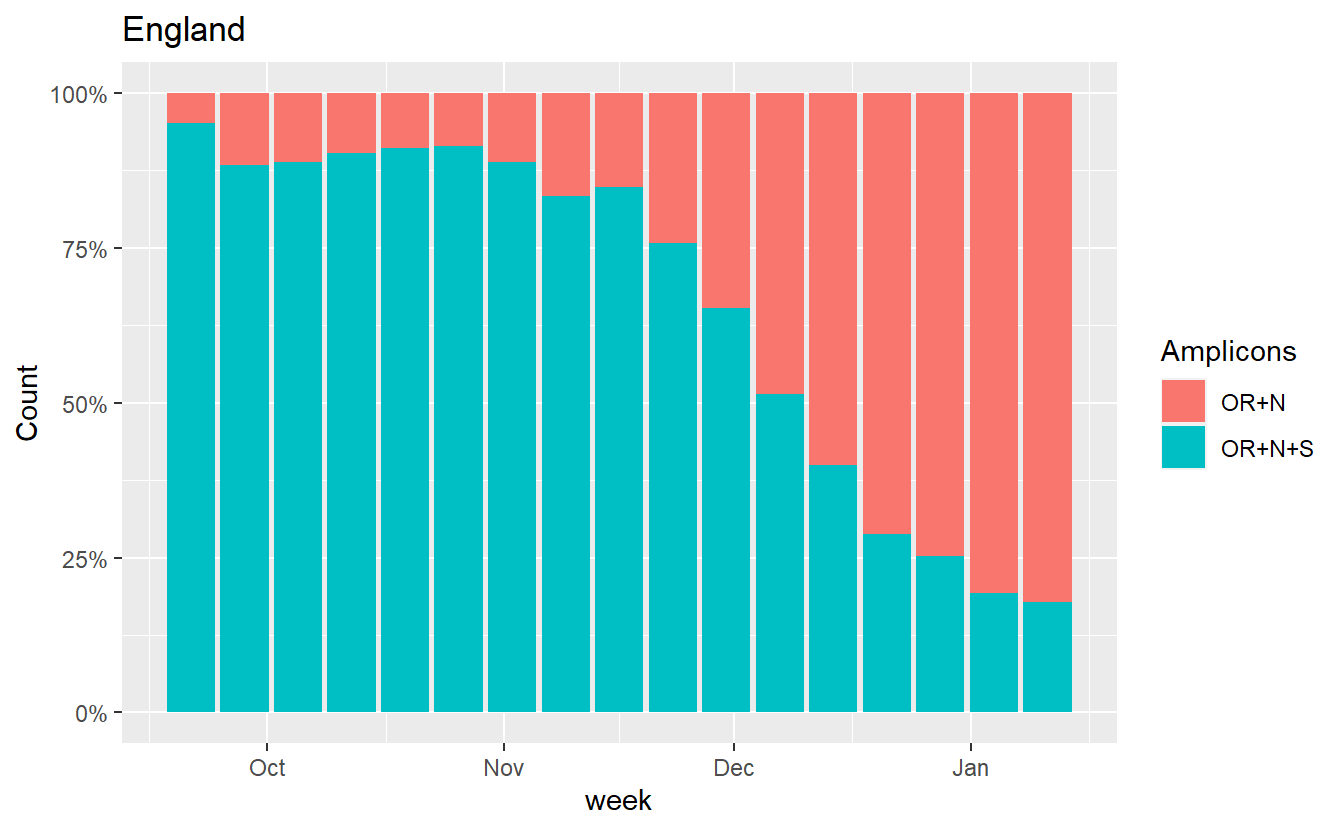
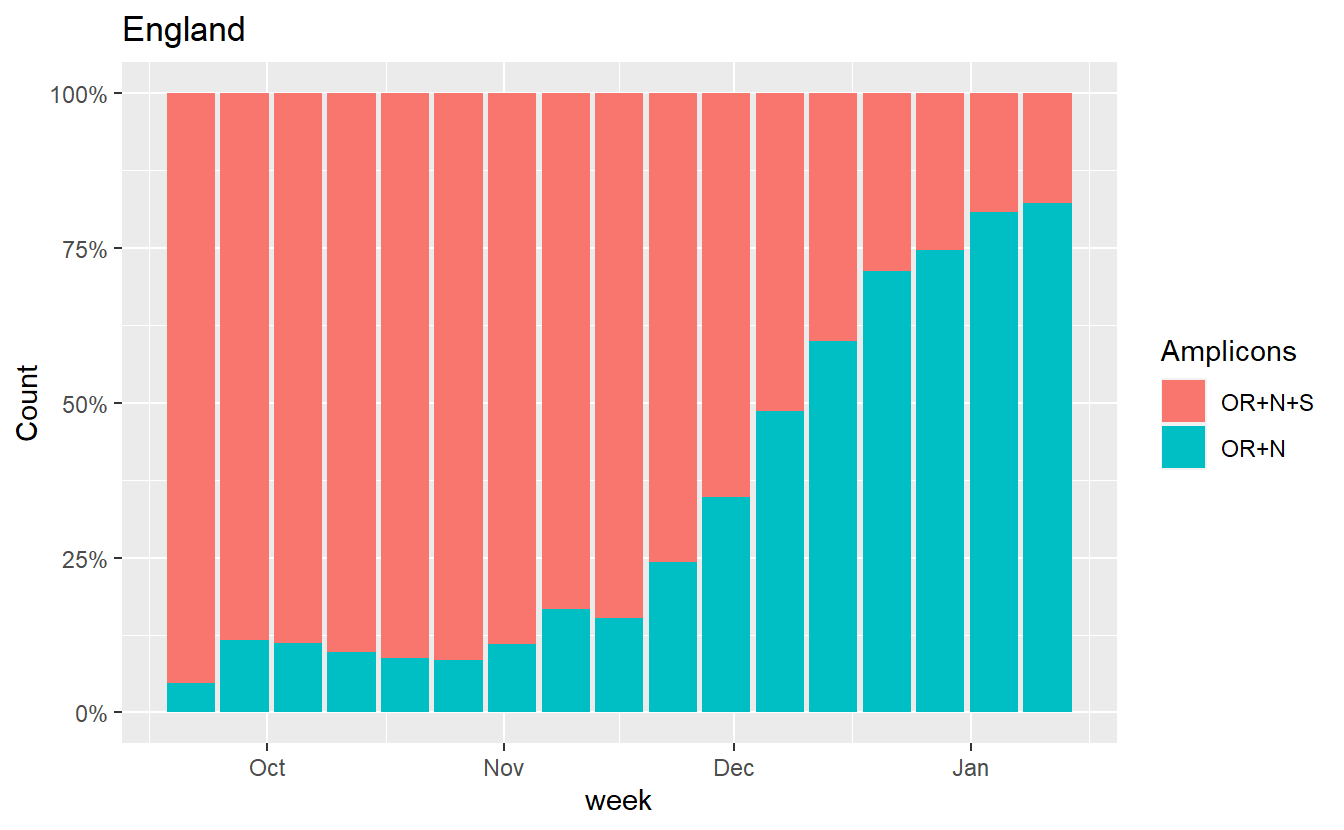
improve plot

Changed region(s): [[0.125, 0.1506, 0.8125, 0.8434]]

diff --git a/content/post/2021-01-22-ons-data/index.md b/content/post/2021-01-22-ons-data/index.md
@@ -12,7 +12,7 @@ draft: false
 projects: []
 mininote: true
 output:  hugodown::md_document  
-rmd_hash: f098c7b91c751bb2
+rmd_hash: ff137898fefec94a
 
 ---
 
@@ -90,6 +90,17 @@ Now lets look at the trajectories of all amplicon groups over time in England.
 
 </code></pre>
 <img src="figs/unnamed-chunk-4-1.png" width="700px" style="display: block; margin: auto;" />
+<pre class='chroma'><code class='language-r' data-lang='r'>
+
+<span class='nv'>data</span><span class='o'>$</span><span class='nv'>Amplicons</span> <span class='o'>=</span> <span class='nf'><a href='https://rdrr.io/r/base/factor.html'>factor</a></span><span class='o'>(</span><span class='nf'><a href='https://rdrr.io/r/base/character.html'>as.character</a></span><span class='o'>(</span><span class='nv'>data</span><span class='o'>$</span><span class='nv'>Amplicons</span><span class='o'>)</span>,levels <span class='o'>=</span> <span class='nf'><a href='https://rdrr.io/r/base/c.html'>c</a></span><span class='o'>(</span><span class='s'>"S only"</span>,<span class='s'>"OR+S"</span>,<span class='s'>"N+S"</span>,<span class='s'>"OR+N+S"</span>,<span class='s'>"N only"</span>,<span class='s'>"OR only"</span>,<span class='s'>"OR+N"</span><span class='o'>)</span><span class='o'>)</span>
+
+<span class='nf'>ggplot</span><span class='o'>(</span><span class='nv'>data</span><span class='o'>%&gt;%</span> <span class='nf'><a href='https://rdrr.io/r/stats/filter.html'>filter</a></span><span class='o'>(</span><span class='nv'>Region</span><span class='o'>==</span><span class='s'>"England"</span><span class='o'>)</span><span class='o'>%&gt;%</span> <span class='nf'><a href='https://rdrr.io/r/stats/filter.html'>filter</a></span><span class='o'>(</span><span class='nv'>Amplicons</span><span class='o'>!=</span><span class='s'>"S only"</span><span class='o'>)</span>, <span class='nf'>aes</span><span class='o'>(</span>x<span class='o'>=</span><span class='nv'>week</span>,y<span class='o'>=</span><span class='nv'>proportion</span>,fill<span class='o'>=</span><span class='nv'>Amplicons</span><span class='o'>)</span><span class='o'>)</span><span class='o'>+</span><span class='nf'>geom_area</span><span class='o'>(</span><span class='o'>)</span><span class='o'>+</span><span class='nf'>theme_bw</span><span class='o'>(</span><span class='o'>)</span><span class='o'>+</span><span class='nf'>scale_y_continuous</span><span class='o'>(</span>expand<span class='o'>=</span><span class='nf'><a href='https://rdrr.io/r/base/c.html'>c</a></span><span class='o'>(</span><span class='m'>0</span>,<span class='m'>0</span><span class='o'>)</span>,labels<span class='o'>=</span><span class='nf'>scales</span><span class='nf'>::</span><span class='nv'><a href='https://scales.r-lib.org//reference/label_percent.html'>percent</a></span><span class='o'>)</span><span class='o'>+</span><span class='nf'>scale_fill_brewer</span><span class='o'>(</span>type<span class='o'>=</span><span class='s'>"qual"</span>,palette<span class='o'>=</span><span class='m'>4</span><span class='o'>)</span><span class='o'>+</span><span class='nf'>labs</span><span class='o'>(</span>x<span class='o'>=</span><span class='s'>"Date"</span>,y<span class='o'>=</span><span class='s'>"Proportion"</span><span class='o'>)</span><span class='o'>+</span><span class='nf'>scale_x_date</span><span class='o'>(</span>expand<span class='o'>=</span><span class='nf'><a href='https://rdrr.io/r/base/c.html'>c</a></span><span class='o'>(</span><span class='m'>0</span>,<span class='m'>0</span><span class='o'>)</span><span class='o'>)</span>
+
+</code></pre>
+<img src="figs/unnamed-chunk-4-2.png" width="700px" style="display: block; margin: auto;" />
+<pre class='chroma'><code class='language-r' data-lang='r'>
+<span class='nf'>ggsave</span><span class='o'>(</span><span class='s'>"plot.pdf"</span>,width<span class='o'>=</span><span class='m'>5</span>,height<span class='o'>=</span><span class='m'>3</span><span class='o'>)</span>
+</code></pre>
 
 </div>
 
